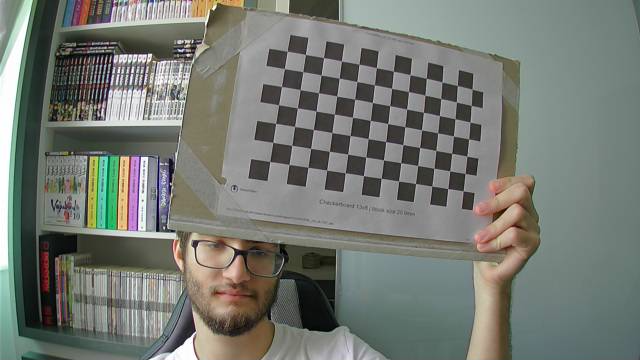
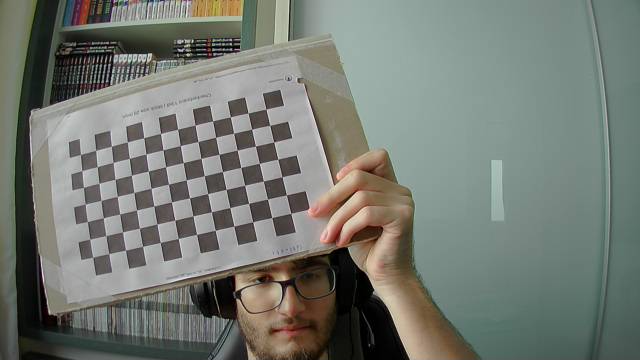
Cameras integradas
Falta so organizar o posicionamento

diff --git a/Interface.py b/Interface.py
@@ -47,14 +47,6 @@ boolfoto = False
 boolconfirmo = False
 boolrecuso = False
 
-def boolCamera1():
-    global boolc1
-    boolc1 = not boolc1
-
-def boolCamera2():
-    global boolc2
-    boolc2 = not boolc2
-
 def boolfotoc():
     global boolfoto
     boolfoto = not boolfoto
@@ -189,14 +181,14 @@ def creattreco():
     l1.place(x = 70, y = 150)
     menu2.update()
     
-    cv2.namedWindow("fotos")
     contador = 0
-    #threading.Thread(target=thread_fun(l1)).start()
+
     while True:
-        
+        feed = cv2.cvtColor(frame, cv2.COLOR_BGR2RGB) 
+        img_update = ImageTk.PhotoImage(Image.fromarray(feed))
+        l1.configure(image=img_update)
         menu2.update()
         if boolrecuso == True:
-            cv2.destroyWindow("fotos")
             menu2.destroy()
             menu.deiconify()
             boolfoto = False
@@ -208,7 +200,6 @@ def creattreco():
         if ret == False:
             print("problema na camera")
             break
-        cv2.imshow("fotos", frame)
         tamanho = (frame.shape[0],frame.shape[1])
         #k = cv2.waitKey(1)
         #if k%256 == 27:
@@ -247,7 +238,6 @@ def creattreco():
                     menu2.update()
         if boolconfirmo == True:
             break
-    cv2.destroyWindow('fotos')
     menu2.destroy()
     objp = np.zeros((tamanhoTabuleiro[0] * tamanhoTabuleiro[1], 3), np.float32)
     objp[:,:2] = np.mgrid[0:tamanhoTabuleiro[0],0:tamanhoTabuleiro[1]].T.reshape(-1,2)
@@ -285,6 +275,9 @@ def creatMenu():
 
     global boolC1
     global boolfoto
+    global frameinicial
+    frame = frameinicial
+    
     cor1 = '#404040' # cinza de fundo
     cor2 = '#ff7f2a' #
     cor3 = '#757575'
@@ -292,7 +285,7 @@ def creatMenu():
     menu = Tk("menu")
     menu.option_add("*font", "lucida 10 bold italic")
     menu.title('Menu')
-    menu.geometry('860x440')
+    menu.geometry('1390x850')
     menu.config(bg = cor1)
     menu.iconbitmap('iconrasie.ico')
 
@@ -371,10 +364,10 @@ def creatMenu():
 
 
     #MOLDURA 3: BOTOES
-    botao1 = Button(moldura3,text='Camera',bg =cor1,fg = cor2,activebackground = cor1,activeforeground = cor2,command = boolCamera1)
+    botao1 = Button(moldura3,text='Camera',bg =cor1,fg = cor2,activebackground = cor1,activeforeground = cor2,command = creattreco)
     botao1.place(x=10,y=10)
 
-    botao2 = Button(moldura3,text='Mascara',bg =cor1,fg = cor2,activebackground = cor1,activeforeground = cor2,command = boolCamera2)
+    botao2 = Button(moldura3,text='Mascara',bg =cor1,fg = cor2,activebackground = cor1,activeforeground = cor2,command = creattreco)
     botao2.place(x=90,y=10)
 
     botao3 = Button(moldura3,text='Calibragem',bg =cor1,fg = cor2,activebackground = cor1,activeforeground = cor2,command = creattreco)
@@ -397,18 +390,23 @@ def creatMenu():
     dados = [Px,Py,vx,vy]
 
     #FIM
+    imagem = Image.fromarray(cv2.cvtColor(frame, cv2.COLOR_BGR2RGB))
+    tkimage = ImageTk.PhotoImage(image=imagem, master=menu)
+    l1 = Label(menu, image=tkimage)
+    l1.place(x = 20, y = 450)
 
-    return menu,hue,saturation,value,dados
+    l2 = Label(menu, image=tkimage)
+    l2.place(x = 700, y = 450)
+    return menu,hue,saturation,value,dados,l1,l2
 
 
 
-menu, hue,saturation,value,dados = creatMenu()
+menu, hue,saturation,value,dados,l1,l2 = creatMenu()
 while(True):
 
     ret, frame = cam.read() 
     tempo = time.time()
     hsv = cv2.cvtColor(frame, cv2.COLOR_BGR2HSV) 
-    
     minimo, maximo = zxc.getTrackBarHSV(hue,saturation,value)
 
     filtrado = cv2.inRange(hsv, minimo, maximo)
@@ -442,21 +440,15 @@ while(True):
         pular += 1  
     #print([vx,vy])
     #ate aki
-    if(boolc1):
-        cv2.imshow('camera',frame)
-    else:
-        try:
-            cv2.destroyWindow('camera')
-        except:
-            pass
+    feed = cv2.cvtColor(frame, cv2.COLOR_BGR2RGB) 
+    img_update = ImageTk.PhotoImage(Image.fromarray(feed))
+    l1.configure(image=img_update)
+    l1.update()
 
-    if(boolc2):
-        cv2.imshow('mascara',filtrado)
-    else:
-        try:
-            cv2.destroyWindow('mascara')
-        except:
-            pass
+    mascara = ImageTk.PhotoImage(Image.fromarray(filtrado))
+    l2.configure(image=mascara)
+    l2.update()
+
     dados[0].config(text="Px = {0}".format(centroX))
     dados[1].config(text="Py = {0}".format(centroY))
     dados[2].config(text="Vx = {0}".format(round(vx,1)))

diff --git a/testecalibra.py b/testecalibra.py
@@ -32,13 +32,6 @@ boolconfirmo = False
 boolrecuso = False
 
 
-def thread_fun():
-   ret, frameteste = cam.read() 
-   imagem = cv2.cvtColor(frameteste, cv2.COLOR_BGR2RGB)  
-   imagem = Image.fromarray(imagem)
-   tkimage = ImageTk.PhotoImage(imagem)
-   l1.config(image=tkimage)
-
 def boolfoto():
     global boolfoto
     boolfoto = not boolfoto
@@ -53,7 +46,6 @@ def boolrecuso():
 
 def cali():
     cam = cv2.VideoCapture(0)
-    cv2.namedWindow("fotos")
     contador = 0
     global boolfoto
     global boolrecuso
@@ -63,18 +55,20 @@ def cali():
     boolconfirmo = False
     
     while True:
-        thread_fun()
         ret, frame = cam.read()
         salvo = frame
         if ret == False:
             print("problema na camera")
             break
-        cv2.imshow("fotos", frame)
         tamanho = (frame.shape[0],frame.shape[1])
         k = cv2.waitKey(1)
+
         if k%256 == 27:
             # ESC pressed
             break
+        feed = cv2.cvtColor(frame, cv2.COLOR_BGR2RGB) 
+        img_update = ImageTk.PhotoImage(Image.fromarray(feed))
+        l1.configure(image=img_update)
         menu.update()
         if boolfoto  == True:
             # SPACE pressed
@@ -109,7 +103,6 @@ def cali():
                     menu.update()
         if boolconfirmo == True:
             break
-    cv2.destroyWindow('fotos')
     objp = np.zeros((tamanhoTabuleiro[0] * tamanhoTabuleiro[1], 3), np.float32)
     objp[:,:2] = np.mgrid[0:tamanhoTabuleiro[0],0:tamanhoTabuleiro[1]].T.reshape(-1,2)
     objetoReal = [] #points in real world space

diff --git a/testevideo.py b/testevideo.py
@@ -19,6 +19,7 @@ import glob
 import pickle
 from PIL import Image, ImageTk 
 import threading
+import multiprocessing
 
 cam = cv2.VideoCapture(0)
 ret, frame = cam.read()
@@ -34,23 +35,40 @@ def main():
     l1.place(x = 70, y = 150)
     botao1 = Button(menu,text='Foto',command=boolfoto)
     botao1.place(x=375,y=10)
+    canva = Canvas()
+    canva.place(x = 70, y = 600)
+    canva.create_image(70,600,anchor='n', image=tkimage)
+    canva.update()
     return menu,l1
-def boolfoto():
-    pass
 
-def thread_fun(menu,l1):
-    while(True):
+def boolfoto():
+    global boolc1
+    boolc1 = False
+
+def thread_fun(menu,l1,boolc1):
+    while(boolc1):
         ret, frameteste = cam.read() 
         imagem = cv2.cvtColor(frameteste, cv2.COLOR_BGR2RGB)  
         imagem = Image.fromarray(imagem)
         tkimage = ImageTk.PhotoImage(imagem)
         l1.config(image=tkimage)
         menu.update()
-        
+
+def thread_fun2(menu,l2):
+    while(True):
+        ret, frameteste = cam.read() 
+        imagem = Image.fromarray(frameteste)
+        tkimage = ImageTk.PhotoImage(imagem)
+        l2.config(image=tkimage)
+        menu.update()        
 
 
 menu,l1 = main()
-threading.Thread(target=thread_fun(menu,l1)).start()
+
 while(True):
-    
+    ret, frame = cam.read()
+    img_update = ImageTk.PhotoImage(Image.fromarray(frame))
+    l1.configure(image=img_update)
+    #l1.image=img_update
+    #l1.update()
     menu.update()
